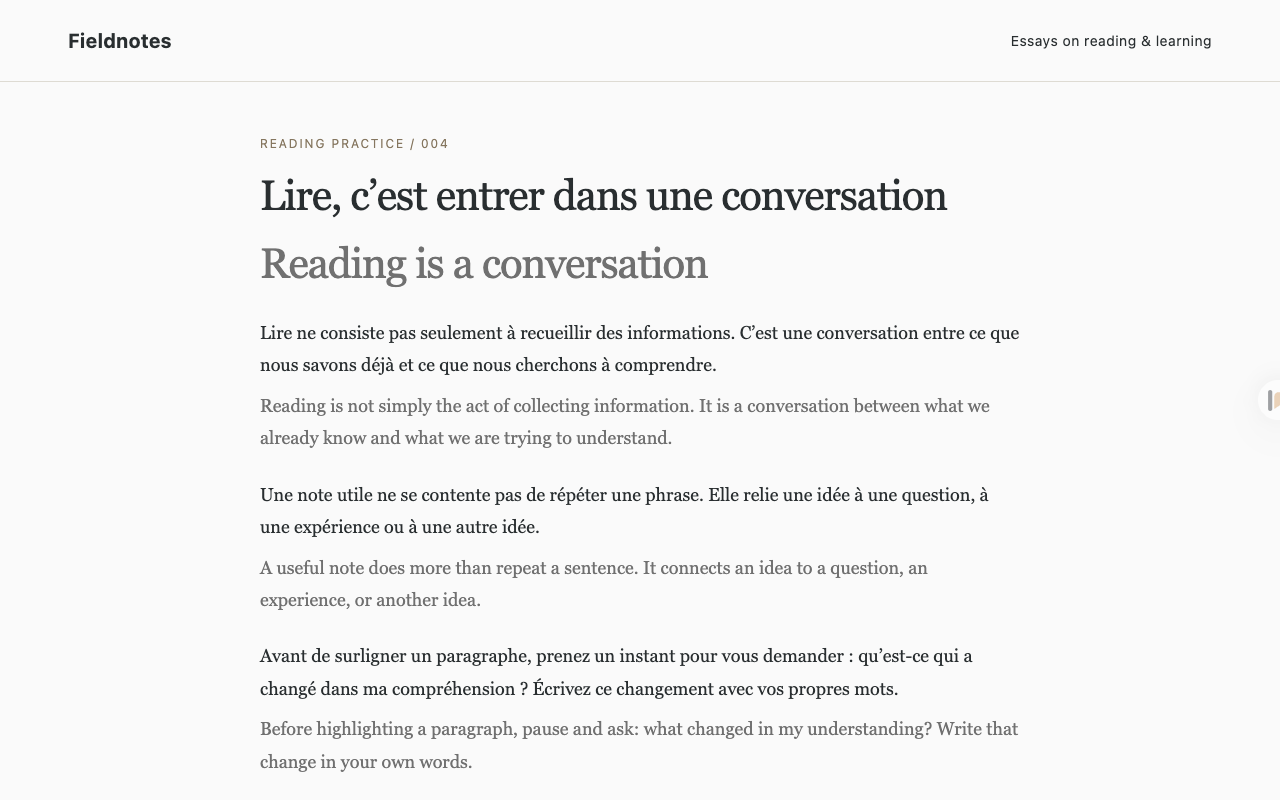
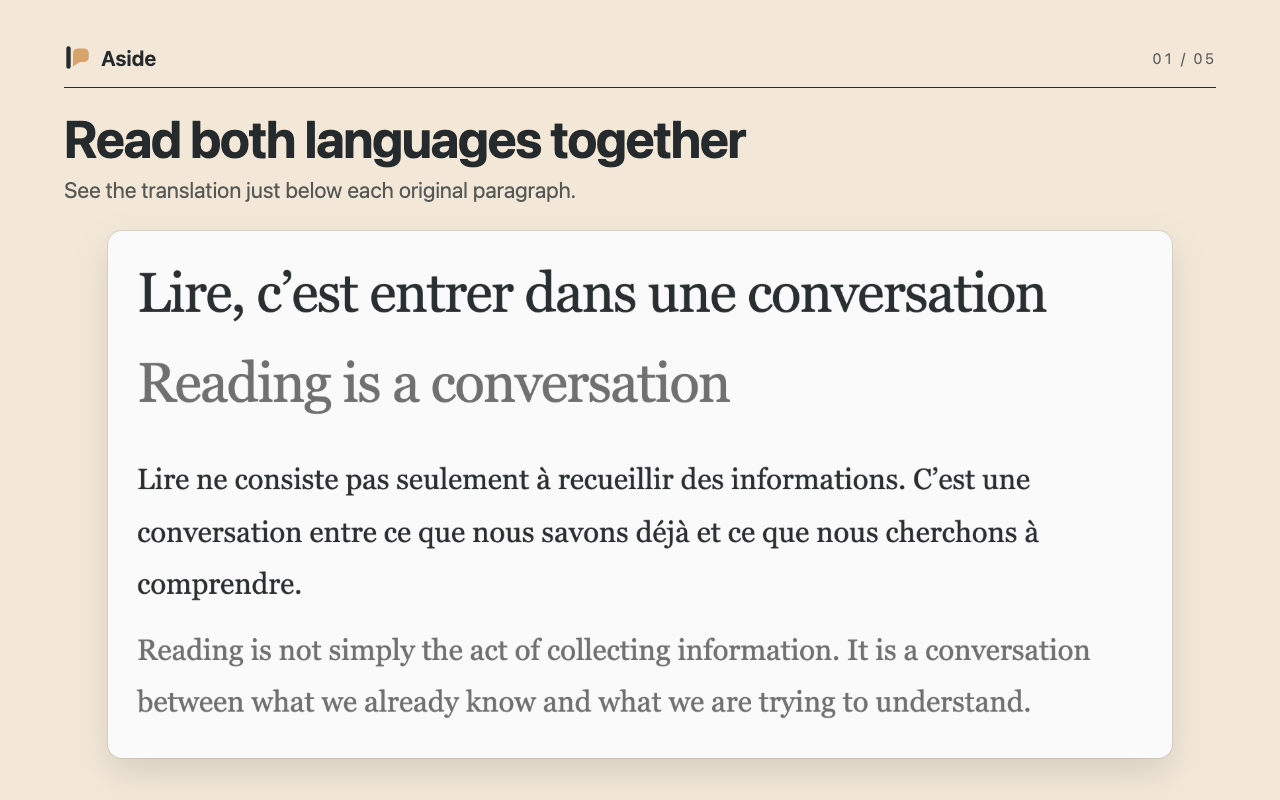
feat: localize and redesign store screenshots

diff --git a/docs/DEVELOPMENT.md b/docs/DEVELOPMENT.md
@@ -249,7 +249,9 @@ GitHub Pages 从 `main` 分支的 `docs/` 提供静态页面。首页使用 `web
 
 首页通过中性色浏览器图标选择平台，首屏提供商店安装，底部展示对应浏览器的手动安装步骤；两处选择保持一致。默认识别 Edge、Firefox，其他浏览器显示 Chrome 并保留手动切换。`website/release.json` 的 `version` 记录公开的 GitHub 下载版本；`browsers` 分别维护商店地址、已上架版本与最低浏览器版本。每个浏览器的 `manual` 维护 ZIP 文件名后缀 `archiveSuffix`、手动安装指南、扩展管理地址和是否临时加载；下载地址统一由公开版本与文件名后缀生成。手动安装直接下载对应浏览器的 ZIP，不要求从源码构建。Firefox 的临时加载限制单独说明。未上架平台的 `storeUrl` 和 `version` 为 `null`，页面显示审核中；上架后填入实际地址与版本即可。新增浏览器还需在 `docs/assets/browsers/` 添加同名 SVG。公开信息不随 `package.json` 中的待发布版本自动变化。新版本的下载链接可提前在本地准备并提交，但须等草稿验收并公开发布后，再推送到 `main`，避免官网出现无法下载的入口。修改后运行 `npm run build:site`。发布流程见[自动发布](#自动发布)。
 
-使用 `node scripts/store-assets.mjs --website` 重新生成英文首页截图；添加 `--locale=zh-CN` 或 `--locale=zh-TW` 分别生成简体、繁体中文素材，保存在 `docs/assets/zh-CN/`、`docs/assets/zh-TW/`。演示文章、问答、收藏和模型回复集中维护在 `scripts/fixtures/store-assets.json`；问答原文采用《庄子·外物》篇末节选，中文按简繁字形呈现，英文使用 Herbert A. Giles 1889 年译文，来源链接与版本信息由 `philosophySource` 同时供截图和网页说明使用，演示解读与引文分开标识。添加 `--qa-only` 可仅导出问答图片，插件界面使用对应语言资源；翻译示例保留法语原文，输出当前截图语言。生成器复用商店素材的隔离浏览器与本地模拟服务，并显式使用 AI 翻译引擎，避免访问默认在线翻译服务；以 2 倍像素密度直接截取真实插件界面，为首屏提供移动端版本，为首屏、选文问答和收藏提供亮暗色版本。`website/languages.json` 的 `screenshots` 指定页面使用的截图目录，未指定的语言使用英文素材；页面生成时从 PNG 读取实际尺寸。无参数运行仍只生成英文商店素材。截图内容、显示比例与预览交互遵循设计规范。
+使用 `node scripts/store-assets.mjs --website` 重新生成英文首页截图；添加 `--locale=zh-CN` 或 `--locale=zh-TW` 分别生成简体、繁体中文素材，保存在 `docs/assets/zh-CN/`、`docs/assets/zh-TW/`。演示文章、问答、收藏和模型回复集中维护在 `scripts/fixtures/store-assets.json`；问答原文采用《庄子·外物》篇末节选，中文按简繁字形呈现，英文使用 Herbert A. Giles 1889 年译文，来源链接与版本信息由 `philosophySource` 同时供截图和网页说明使用，演示解读与引文分开标识。添加 `--qa-only` 可仅导出问答图片，插件界面使用对应语言资源；翻译示例保留法语原文，输出当前截图语言。生成器复用商店素材的隔离浏览器与本地模拟服务，并显式使用 AI 翻译引擎，避免访问默认在线翻译服务；以 2 倍像素密度直接截取真实插件界面，为首屏提供移动端版本，为首屏、选文问答和收藏提供亮暗色版本。`website/languages.json` 的 `screenshots` 指定页面使用的截图目录，未指定的语言使用英文素材；页面生成时从 PNG 读取实际尺寸。截图内容、显示比例与预览交互遵循设计规范。
+
+不加 `--website` 时，生成器默认输出英文商店素材；添加 `--locale=zh-CN` 生成简体中文展示图。文件和上传语言项见[商店发布材料](../web-store/README.md#展示素材)。
 
 首页主题选择保存在本站的本地存储中；主题交互和截图呈现遵循设计规范。修改 `docs/home.css` 或 `docs/home.js` 后也要运行 `npm run build:site`，生成页面中的资源版本随内容更新，避免旧缓存影响预览和发布。
 

diff --git a/web-store/README.md b/web-store/README.md
@@ -27,17 +27,17 @@
 
 ## 展示素材
 
-已保存的截图由真实插件界面生成；发布前检查是否仍与目标版本一致，必要时重新生成。英文截图可用于其他语言的列表，完整本地化截图需另行制作。
+英文和简体中文各有一套展示图，分别上传到控制台对应的语言项。每张图用短标题介绍一个功能，主体为真实界面中与操作直接相关的区域。发布前核对截图与目标版本是否一致。
 
-| 顺序 | 文件 | 展示内容 |
-| --- | --- | --- |
-| 1 | [01-inline-translation.png](assets/01-inline-translation.png) | 法语原文与英文行内译文 |
-| 2 | [02-quick-qa.png](assets/02-quick-qa.png) | 选文快问快答结果 |
-| 3 | [03-collection.png](assets/03-collection.png) | 收藏片段与今日随想 |
-| 4 | [04-reusable-actions.png](assets/04-reusable-actions.png) | 处理方式编辑与试运行 |
-| 5 | [05-dark-reading.png](assets/05-dark-reading.png) | Dark Reader 暗色网页和悬浮菜单 |
+| 顺序 | 展示内容 | English | 简体中文 |
+| --- | --- | --- | --- |
+| 1 | 法语原文与行内译文 | [01-inline-translation.png](assets/01-inline-translation.png) | [01-inline-translation.png](assets/zh-CN/01-inline-translation.png) |
+| 2 | 选中的原文和问答结果 | [02-quick-qa.png](assets/02-quick-qa.png) | [02-quick-qa.png](assets/zh-CN/02-quick-qa.png) |
+| 3 | 收藏片段、解读与来源 | [03-collection.png](assets/03-collection.png) | [03-collection.png](assets/zh-CN/03-collection.png) |
+| 4 | 自定义处理要求与试运行结果 | [04-reusable-actions.png](assets/04-reusable-actions.png) | [04-reusable-actions.png](assets/zh-CN/04-reusable-actions.png) |
+| 5 | Dark Reader 暗色网页和悬浮菜单 | [05-dark-reading.png](assets/05-dark-reading.png) | [05-dark-reading.png](assets/zh-CN/05-dark-reading.png) |
 
-截图中的文章、收藏和回复是自编示例，使用隔离的临时 Chrome 资料与本地模拟服务生成，不含实际账号、密钥或个人浏览记录。安装包不包含示例数据或模拟服务。
+问答图使用《庄子·外物》节选，在画面内标明出处、英文译本及演示解读。其余文章、收藏和模型回复为演示内容。截图使用隔离的临时 Chrome 资料与本地模拟服务生成，不含实际账号、密钥或个人浏览记录。安装包不包含示例数据或模拟服务。
 
 截图尺寸为 **1280 × 800 PNG**；图标为 **128 × 128**，宣传图为 **440 × 280** 与 **1400 × 560**。提交时核对[官方素材规格](https://developer.chrome.com/docs/webstore/images)。
 
@@ -50,6 +50,7 @@ npm ci
 npm run build:icons
 npm run build
 node scripts/store-assets.mjs
+node scripts/store-assets.mjs --locale=zh-CN
 ```
 
 截图脚本使用临时 Chrome 资料与本地示例服务，完成后删除临时资料目录。运行期间不要重新构建插件。安装包由独立的打包流程生成，见[开发文档](../docs/DEVELOPMENT.md#自动发布)。

diff --git a/.agents/design-principles.md b/.agents/design-principles.md
@@ -70,6 +70,10 @@
 
 截图使用真实插件界面与明确的演示内容，选文问答展示所选原文和完整工具面板。简体、繁体中文产品页的截图分别使用对应的界面与演示文案，覆盖问答、收藏、亮暗色及移动端版本；翻译示例保留外语原文，译文使用页面语言。示例应值得解释，并与内容类型及排版相符。引用真实作品时，在截图与网页说明中保留可核对的书名、篇章及译本信息；原文、译文与演示解读分开标识，自编示例不冒充引文。图片保持自然比例和清晰度，不依赖大幅放大及负偏移裁切；点击图片在浮层中查看，页面和截图一起随亮暗色切换。主题按钮直接在跟随系统、浅色、深色之间循环，不展开菜单。
 
+### 商店展示图
+
+每张图聚焦一个使用场景，用短标题说明用途，优先截取能展示操作与结果的真实界面区域。只保留理解该操作所需的网页上下文。各商店语言项的标题、界面及演示结果使用对应语言，翻译示例保留外语原文。
+
 ## 检查项
 
 按改动涉及的范围选择检查，不要求每次遍历所有页面：
@@ -81,5 +85,6 @@
 - 提示框是否优先居中且完整可见？菜单首尾内容能否滚动到，语言选项是否没有多余搜索框？在浏览器工具栏的自动尺寸弹窗中，下拉菜单能否保持展开并完成选择？
 - 切换语言和主题后，示例、提示、阴影是否一致变化，自定义内容和显式输出语言是否保留？收藏详情的 Markdown 是否实际渲染？
 - 产品页截图是否清晰、完整地表达操作情境？简体、繁体中文截图的界面及示例文字是否对应页面语言，亮暗色和移动端版本是否完整，点击后是否留在当前页面的图片浮层中？
+- 商店展示图缩至商店预览尺寸时，能否辨认功能和关键操作或结果？标题、插件界面与演示结果是否对应所上传的语言项？
 
 纯文案和样式调整不新增逻辑测试；可复现的状态或交互问题按开发文档选择针对性验证。分别记录文档核对、构建、浏览器检查和实际验收的结果，不把其中一项当作其他项已完成的证明。
